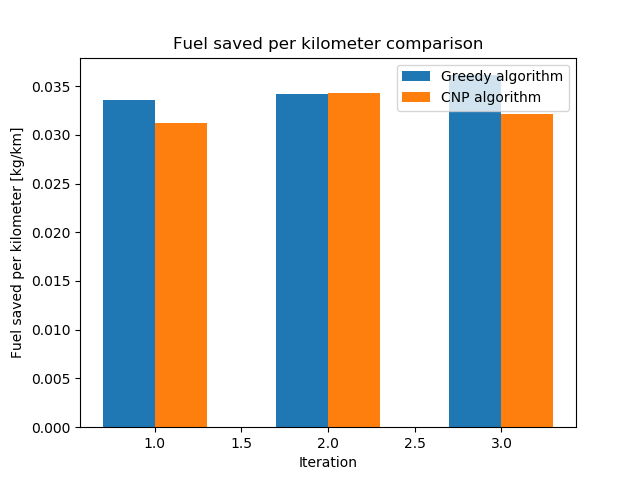
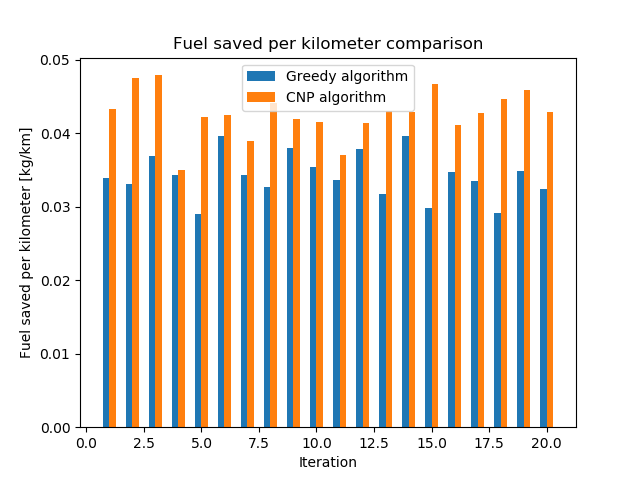
Fully working now

diff --git a/formation_update/formation_flying/negotiations/english.py b/formation_update/formation_flying/negotiations/english.py
@@ -34,22 +34,39 @@ def do_English(flight):
         # Check if received bids
         if flight.received_bids != []:        
             
+            #Check if highest bidder is already assigned
+            if flight.highest_bidding_agent == []:
+                flight.highest_bidding_agent.append({'highest bidder': flight.received_bids[0]['bidding_agent'], 'value': flight.received_bids[0]['value']})
+            
             # If current highest is highest from last round -> formation
-            if flight.highest_bidding_agent[0] == flight.received_bids[0]['bidding_agent'] and flight.highest_bidding_agent[1] == flight.received_bids[0]['value']:
-                # Check if flight is already in formation
-                if flight.formation_state == 0:
-                    if flight.received_bids[0]['bidding_agent'].formation_state == 0:    
-                        flight.start_formation(flight.received_bids[0]['bidding_agent'], flight.received_bids[0]['value'])
+            if flight.highest_bidding_agent[0]['highest bidder'] == flight.received_bids[0]['bidding_agent'] and flight.highest_bidding_agent[0]['value'] == flight.received_bids[0]['value']:
                 
-                # Manager is already in formation
-                elif flight.formation_state != 0 or flight.formation_state != 4:
-                    if flight.received_bids[0]['bidding_agent'].formation_state == 0:
-                        flight.add_to_formation(flight.received_bids[0]['bidding_agent'], flight.received_bids[0]['value'])
+                # Deal value must be greater than 0
+                if flight.received_bids[0]['value'] > 0:
                 
-                # Clear received_bids list for next auction
-                flight.received_bids = []
+                    # Check if flight is already in formation
+                    if flight.formation_state == 0:
+                        if flight.received_bids[0]['bidding_agent'].formation_state == 0:    
+                            flight.start_formation(flight.received_bids[0]['bidding_agent'], flight.received_bids[0]['value'])
+                    
+                    # Manager is already in formation
+                    elif flight.formation_state != 0 or flight.formation_state != 4:
+                        if flight.received_bids[0]['bidding_agent'].formation_state == 0:
+                            flight.add_to_formation(flight.received_bids[0]['bidding_agent'], flight.received_bids[0]['value'])
+                    
+                    # Clear received_bids list for next auction
+                    flight.received_bids = []
             
             # Update current highest bidding agent
             else:
-                flight.highest_bidding_agent = [flight.received_bids[0]['bidding_agent'], flight.received_bids[0]['value']]
+                flight.highest_bidding_agent[0] = {'highest bidder': flight.received_bids[0]['bidding_agent'], 'value': flight.received_bids[0]['value']}
+            
+            
+            
+            
+            
+            
+            
+            
+            
             

diff --git a/formation_update/formation_flying/negotiations/japanese.py b/formation_update/formation_flying/negotiations/japanese.py
@@ -58,27 +58,30 @@ def do_Japanese(flight):
         # If one flight remains, pick the winner and start formation
         if flights_in_auction_counter == 1:
             
-            # Start formation with the remaining agent
-            # Check if flight is already in formation
-            if flight.formation_state == 0:
-                if winner.formation_state == 0:    
-                    flight.start_formation(winner, flight.current_price)
-            
-            # Manager is already in formation
-            elif flight.formation_state != 0 or flight.formation_state != 4:
-                if winner.formation_state == 0:
-                    flight.add_to_formation(winner, flight.current_price)
-                    
-            # Reset current price based on number of agents in formation and adjust price increase per step
-            if len(flight.agents_in_my_formation) > 2:
-                flight.current_price = 50
-                flight.price_increase = 10
-            else:
-                flight.current_price = 80
-                flight.price_increase = 20
-            
-            # Reset agents in auction list
-            flight.agents_in_auction = []
+            # Make sure that the price the bidding agent has to pay is larger than 0
+            if flight.current_price > 0:    
+               
+                # Start formation with the remaining agent
+                # Check if flight is already in formation
+                if flight.formation_state == 0:
+                    if winner.formation_state == 0:    
+                        flight.start_formation(winner, flight.current_price)
+                
+                # Manager is already in formation
+                elif flight.formation_state != 0 or flight.formation_state != 4:
+                    if winner.formation_state == 0:
+                        flight.add_to_formation(winner, flight.current_price)
+                        
+                # Reset current price based on number of agents in formation and adjust price increase per step
+                if len(flight.agents_in_my_formation) > 2:
+                    flight.current_price = 50
+                    flight.price_increase = 10
+                else:
+                    flight.current_price = 80
+                    flight.price_increase = 20
+                
+                # Reset agents in auction list
+                flight.agents_in_auction = []
         
         # If flights are in the auction decrease price
         if flights_in_auction_counter == 0:

diff --git a/formation_update/batchrunner.py b/formation_update/batchrunner.py
@@ -11,9 +11,9 @@ from matplotlib import pyplot as plt
 import numpy as np
 
 # Choose what has to be compared
-greedy_comp = True
+greedy_comp = False
 vision_comp = False
-auction_comp = False
+auction_comp = True
 
 airport_pos_comp = False
 
@@ -24,7 +24,7 @@ third = False
 plot_all = False
 
 # Number of iterations
-iterations = 3
+iterations = 20
 
 batch_run = BatchRunner(FormationFlying,
                             fixed_parameters=model_params,
@@ -155,7 +155,7 @@ if vision_comp:
     plt.xlabel('Communication range [km]')
     plt.ylabel('Number of formations')
     plt.title('Number of formations comparison')   
-    plt.savefig('figures/vis_n_formaions_comp')
+    plt.savefig('figures/vis_n_formations_comp')
     
     # Flight time comparison
     plt.figure()
@@ -239,16 +239,17 @@ if auction_comp:
     split_n_formations_data[2] = sum(split_n_formations_data[2]) / iterations
     
      # Total distance flown
-    split_dist_data = np.array_split(run_data['flight_time'], 3)
+    split_dist_data = np.array_split(run_data['flight time'], 3)
     split_dist_data[0] = sum(split_dist_data[0]) / iterations
     split_dist_data[1] = sum(split_dist_data[1]) / iterations
     split_dist_data[2] = sum(split_dist_data[2]) / iterations
     
     # Average deal value of bidding agents
-    split_deal_data = np.array_split(run_data['Deal value'], 3)
-    split_deal_data[0] = (sum(split_deal_data[0]) / iterations) / run_data['N bidding agents']
-    split_deal_data[1] = (sum(split_deal_data[1]) / iterations) / run_data['N bidding agents']
-    split_deal_data[2] = (sum(split_deal_data[2]) / iterations) / run_data['N bidding agents']
+    split_deal_data = np.array_split(run_data['Deal values'], 3)
+    split_n_bidding_agents_data = np.array_split(run_data['N bidding agents'], 3)
+    split_deal_data[0] = (sum(split_deal_data[0]) / iterations) / (sum(split_n_bidding_agents_data[0]) / iterations)
+    split_deal_data[1] = (sum(split_deal_data[1]) / iterations) / (sum(split_n_bidding_agents_data[1]) / iterations)
+    split_deal_data[2] = (sum(split_deal_data[2]) / iterations) / (sum(split_n_bidding_agents_data[2]) / iterations)
     
     # PLOT DATA
     # Fuel saved per kilometer comparison

diff --git a/formation_update/formation_flying/agents/flight.py b/formation_update/formation_flying/agents/flight.py
@@ -143,7 +143,7 @@ class Flight(Agent):
         self.strategy = 0
         
         # For english
-        self.highest_bidding_agent = 0
+        self.highest_bidding_agent = []
         
         # Manager and auctioneer determination
         self.accepting_bids = 0
@@ -300,7 +300,11 @@ class Flight(Agent):
             
             self.model.add_to_formation_counter += 1
             self.accepting_bids = False
-    
+            
+            # For auctions to determine average winning bid
+            self.model.n_auctions_won += 1
+            self.model.total_auction_value += bid_value
+            
             if discard_received_bids:
                 # Discard all bids that have been received
                 self.received_bids = []
@@ -363,7 +367,11 @@ class Flight(Agent):
             self.model.fuel_savings_closed_deals += fuel_saving
             self.deal_value += bid_value
             target_agent.deal_value -= bid_value
-    
+            
+            # For auctions to determine average winning bid
+            self.model.n_auctions_won += 1
+            self.model.total_auction_value += bid_value
+            
             # Counter to keep track of saved fuel of alliance
             if self.alliance == 1 and target_agent.alliance == 1:
                 self.model.alliance_saved_fuel += fuel_saving
@@ -540,7 +548,7 @@ class Flight(Agent):
                     JP[0] = 10
                 else:
                     JP[1] = 10
-            print("JP = ", JP)
+#            print("JP = ", JP)
             return JP
         else:
             if Y1[1] < Y2[1]:
@@ -558,7 +566,7 @@ class Flight(Agent):
                     LP[0] = 10
                 else:
                     LP[1] = 10
-            print("LP =",  LP)
+#            print("LP =",  LP)
             return LP
         # old = [0.5 * (a.pos[0] + b.pos[0]), 0.5 * (a.pos[1] + b.pos[1])]
         # old2 = [0.5 * (a.destination[0] + b.destination[0]), 0.5 * (a.destination[1] + b.destination[1])]

diff --git a/formation_update/formation_flying/negotiations/CNP.py b/formation_update/formation_flying/negotiations/CNP.py
@@ -80,14 +80,15 @@ def do_CNP(flight):
                 raise Exception('Both in formation')
         
         # Start formation or add formation, depending on state of manager, with best bid agent
-        if best_bid != []:    
-            if best_bid[0]['value'] > 0:
-                if flight.formation_state == 0:
-                    flight.start_formation(best_bid[0]['bidding_agent'], best_bid[0]['value'])
-                    
-                elif flight.formation_state != 0 or flight.formation_state != 4:
-                    if best_bid[0]['bidding_agent'].formation_state == 0:
-                        flight.add_to_formation(best_bid[0]['bidding_agent'], best_bid[0]['value'])
+        if best_bid != []:   
+            if best_bid[0]['value'] / best_bid[2] > 0.2:
+                if best_bid[0]['value'] > 0:
+                    if flight.formation_state == 0:
+                        flight.start_formation(best_bid[0]['bidding_agent'], best_bid[0]['value'])
+                        
+                    elif flight.formation_state != 0 or flight.formation_state != 4:
+                        if best_bid[0]['bidding_agent'].formation_state == 0:
+                            flight.add_to_formation(best_bid[0]['bidding_agent'], best_bid[0]['value'])
                         
         flight.received_bids = []
         

diff --git a/formation_update/formation_flying/parameters.py b/formation_update/formation_flying/parameters.py
@@ -41,12 +41,12 @@ model_params = {
     "n_flights": 50,
     "n_origin_airports": 20,
     "n_destination_airports": 20,
-#    "communication_range": 200, #[km]
+    "communication_range": 200, #[km]
     "width": 750, # [km]
     "height": 750, # [km]
     "speed": 0.3, #[km / second]
     "fuel_reduction": 0.75, 
-    "negotiation_method": 1,
+#    "negotiation_method": 1,
     "departure_window": 3, 
     "origin_airport_x": [0.01, 0.3],  #[0, 0.1], [0, 0.2], [0, 0.3]
     "origin_airport_y": [0.01, 0.3],  # [0, 0.1], [0, 0.2], [0, 0.3]
@@ -56,7 +56,7 @@ model_params = {
 
 # To run model with a variable parameter:
 #variable_params = {"communication_range": [50, 200, 500]}
-variable_params = {"negotiation_method": [0,1]}
+variable_params = {"negotiation_method": [2,3,4]}
 
 
 model_reporter_parameters={"Total Fuel Used": compute_total_fuel_used, 

diff --git a/formation_update/formation_flying/metrics.py b/formation_update/formation_flying/metrics.py
@@ -18,20 +18,10 @@ def real_fuel_saved(model):
     return model.total_planned_fuel - model.total_fuel_consumption
 
 def total_deal_value(model):
-    deal_value_bidding_agents = 0
-    for agent in model.schedule.agents:
-        if agent.deal_value > 0:
-            if agent.manager == 0:
-                deal_value_bidding_agents += agent.deal_value
-    return deal_value_bidding_agents
+    return model.total_auction_value
 
 def n_bidding_agents(model):
-    n_bidding_agents = 0
-    for agent in model.schedule.agents:
-        if agent.deal_value > 0:
-            if agent.manager == 0:
-                n_bidding_agents += 1
-    return n_bidding_agents
+    return model.n_auctions_won
     
 def compute_total_flight_time(model):
     return model.total_flight_time

diff --git a/formation_update/formation_flying/model.py b/formation_update/formation_flying/model.py
@@ -80,7 +80,7 @@ class FormationFlying(Model):
         self.departure_window = departure_window
         self.fuel_reduction = fuel_reduction
         self.negotiation_method = negotiation_method
-
+        
         self.fuel_savings_closed_deals = 0
 
         self.total_planned_fuel = 0
@@ -96,6 +96,10 @@ class FormationFlying(Model):
         # In format {'manager': agent, 'n agents in formation': n}
         self.formation_list = []
         self.n_formation_list = [0]
+        
+        # How many agents won auctions
+        self.n_auctions_won = 0
+        self.total_auction_value = 0
         
         self.origin_list = []
         self.destination_list = []
